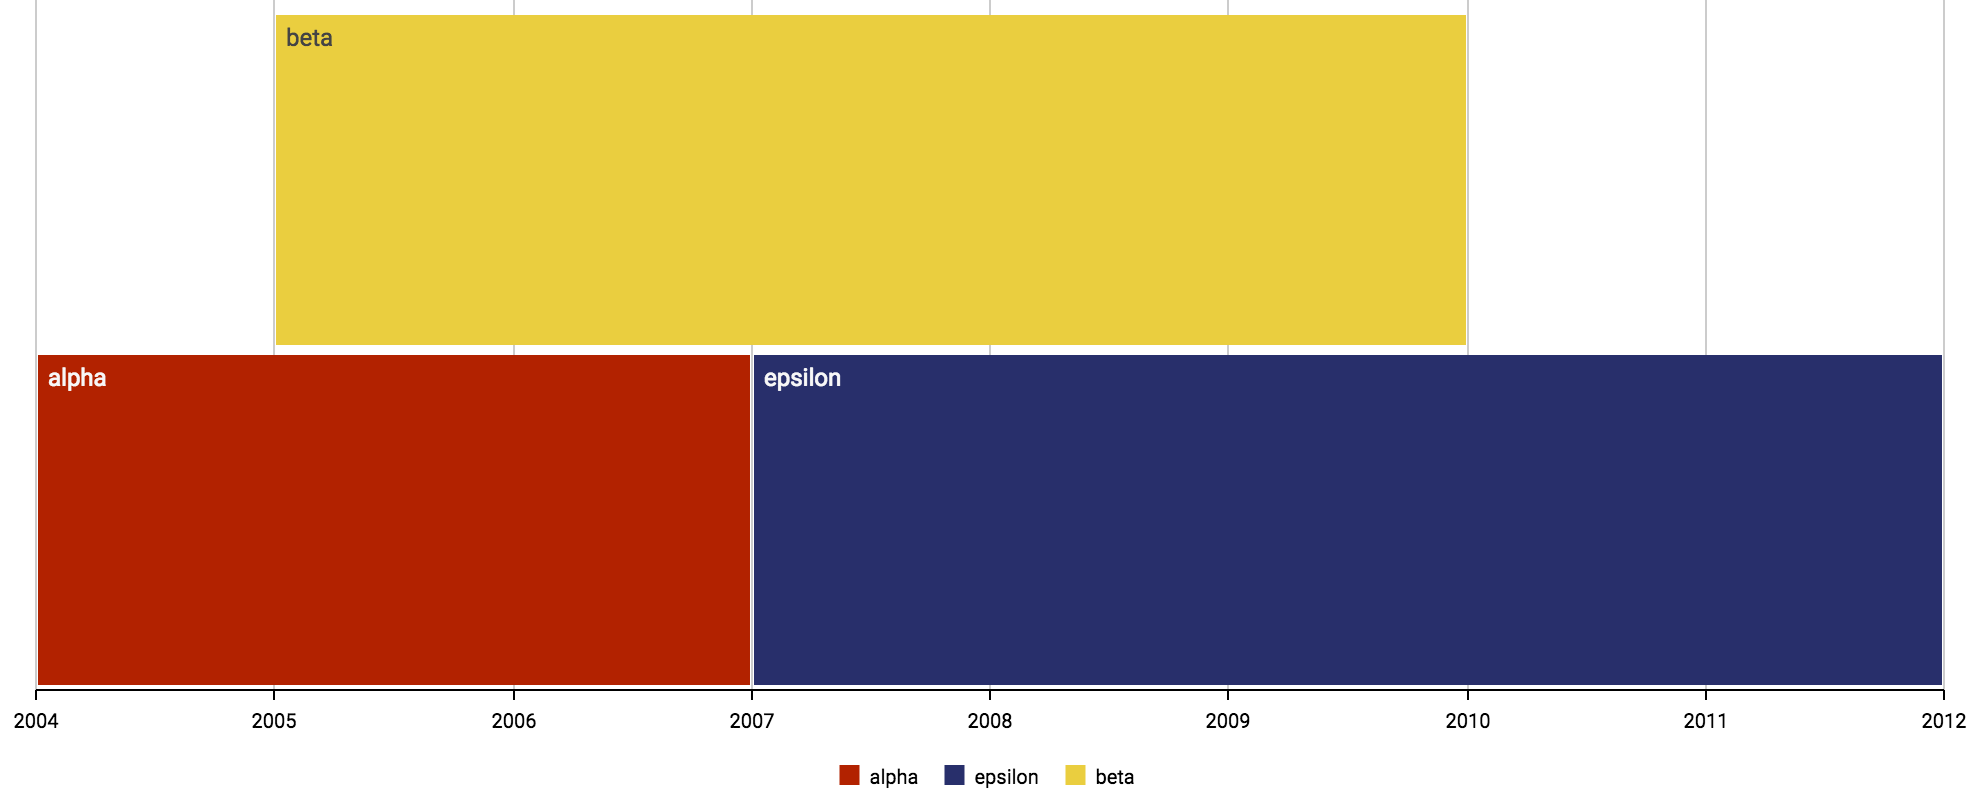
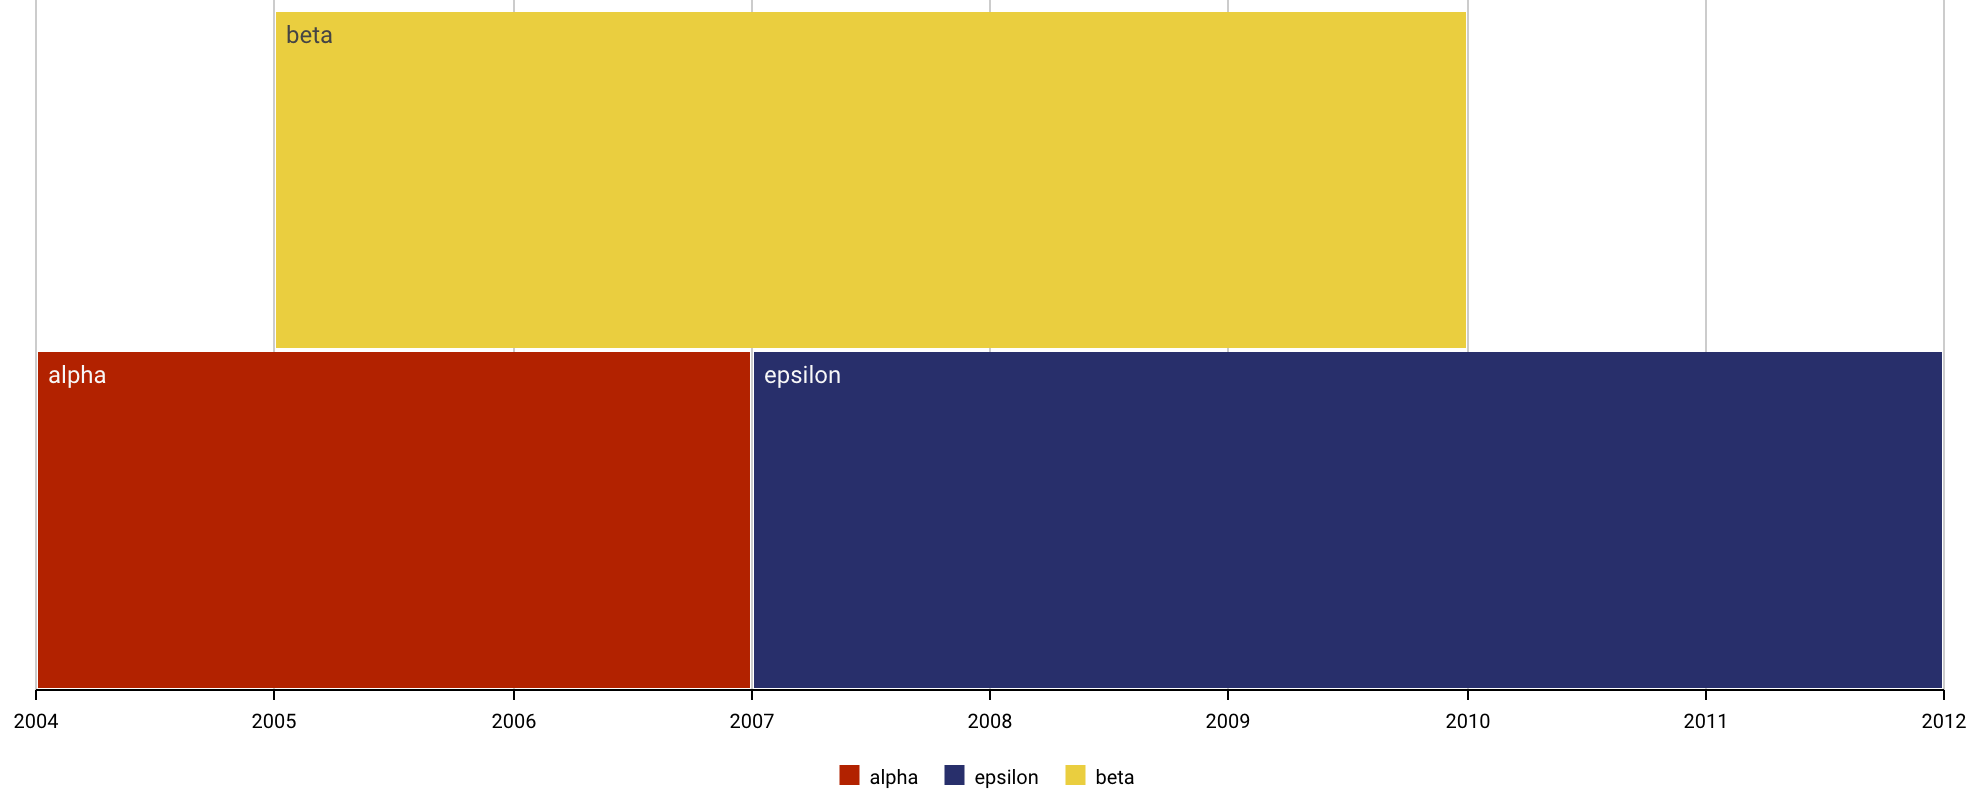
d3plus-priestley examples

Changed region(s): [[0.0308, 0.4062, 0.9859, 0.5], [0.0308, 0.8438, 0.9859, 0.875], [0.1232, 0.0, 0.7394, 0.0625]]

diff --git a/_examples/d3plus-priestley/getting-started/embed.html b/_examples/d3plus-priestley/getting-started/embed.html
@@ -4,7 +4,7 @@
 <head>
 
   <meta charset="utf-8">
-  <script src="https://d3plus.org/js/d3plus-priestley.v0.2.full.min.js"></script>
+  <script src="https://d3plus.org/js/d3plus-priestley.v0.3.full.min.js"></script>
 
   <style>
 

diff --git a/_examples/d3plus-priestley/grouping/embed.html b/_examples/d3plus-priestley/grouping/embed.html
@@ -4,7 +4,7 @@
 <head>
 
   <meta charset="utf-8">
-  <script src="https://d3plus.org/js/d3plus-priestley.v0.2.full.min.js"></script>
+  <script src="https://d3plus.org/js/d3plus-priestley.v0.3.full.min.js"></script>
 
   <style>
 

diff --git a/_examples/d3plus-priestley/grouping/index.md b/_examples/d3plus-priestley/grouping/index.md
@@ -2,8 +2,8 @@
 title: Grouping Priestley Bars into Lanes
 width: 990
 height: 400
-time: 1534342590770
-date: August 15, 2018
+time: 1538155266168
+date: September 28, 2018
 ---
 
 # Grouping Priestley Bars into Lanes

diff --git a/_examples/d3plus-priestley/getting-started/index.md b/_examples/d3plus-priestley/getting-started/index.md
@@ -2,8 +2,8 @@
 title: Simple Priestley Diagram
 width: 990
 height: 400
-time: 1534342590770
-date: August 15, 2018
+time: 1538155266168
+date: September 28, 2018
 ---
 
 # Simple Priestley Diagram
